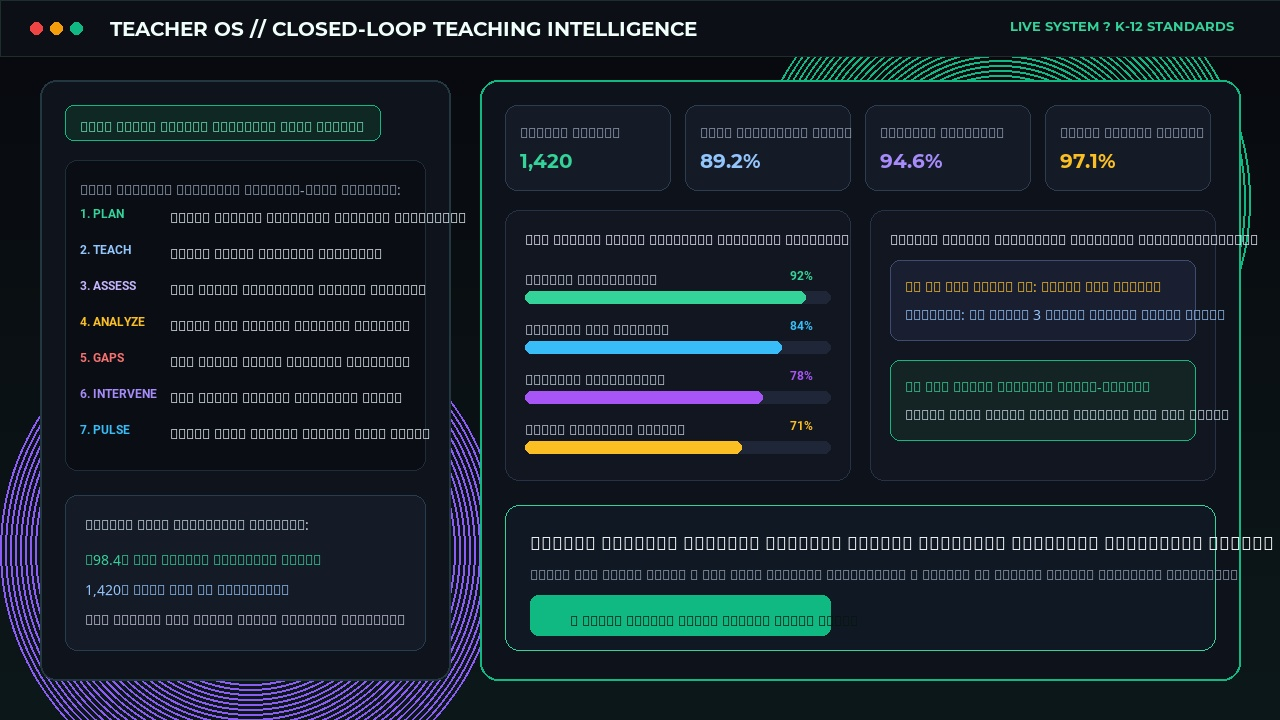
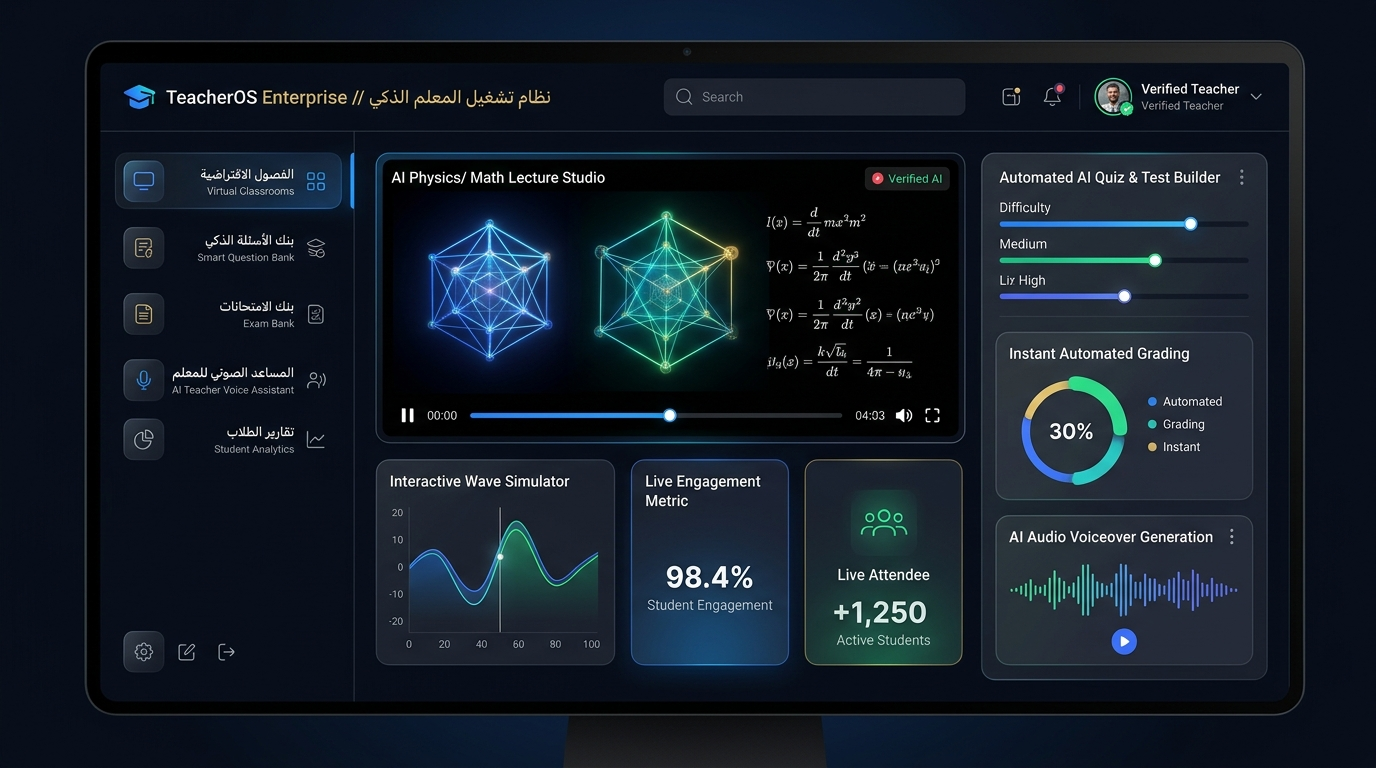
feat: update channel covers to square aspect ratio, remove software models section, replace word passion, add developer branding to voice studio, and update teacheros preview

diff --git a/index.html b/index.html
@@ -370,7 +370,6 @@
             <nav class="hidden xl:flex items-center gap-1 bg-[#111116]/90 border border-white/10 rounded-full px-3 py-1 shadow-inner backdrop-blur-md" id="main-nav-tabs">
         <a href="#services" class="nav-tab px-3 py-1 text-xs font-bold text-zinc-300 hover:text-white hover:bg-purple-950/60 rounded-full transition-all duration-200" data-i18n="nav_services">المهارات</a>
         <a href="#platforms" class="nav-tab px-3 py-1 text-xs font-bold text-zinc-300 hover:text-white hover:bg-purple-950/60 rounded-full transition-all duration-200" data-i18n="nav_platforms">المنظومات الحية</a>
-        <a href="#software-models" class="nav-tab px-3 py-1 text-xs font-bold text-zinc-300 hover:text-white hover:bg-purple-950/60 rounded-full transition-all duration-200" data-i18n="nav_models">النماذج الذكية</a>
         <a href="#media-network" class="nav-tab px-3 py-1 text-xs font-bold text-zinc-300 hover:text-white hover:bg-purple-950/60 rounded-full transition-all duration-200" data-i18n="nav_media">شبكة الميديا</a>
       </nav>
 
@@ -565,7 +564,7 @@
             <span data-i18n="serv_badge">المهارات والخبرات الهندسية</span>
           </div>
           <h2 class="text-lg sm:text-2xl lg:text-3xl font-black text-white" data-i18n="serv_title">
-            شغف بناء المنظومات <span class="purple-gradient-text">وإتقان الحلول الذكية</span>
+            صناعة المنظومات الذكية <span class="purple-gradient-text">وإتقان الحلول البرمجية</span>
           </h2>
         </div>
         <p class="text-zinc-400 text-[11px] sm:text-xs max-w-md" data-i18n="serv_sub">
@@ -1090,120 +1089,6 @@
 
 
   <!-- ========================================== -->
-  <!-- 6. AI SOFTWARE MODELS & TOOLS (VERTICAL CARDS GRID) -->
-  <!-- ========================================== -->
-  <section id="software-models" class="py-6 sm:py-14 relative">
-    <div class="max-w-7xl mx-auto px-3 sm:px-6 lg:px-8">
-      
-      <!-- Section Header -->
-      <div class="flex flex-col md:flex-row md:items-end justify-between mb-4 sm:mb-10 gap-2 sm:gap-4 text-right align-start-dir">
-        <div>
-          <div class="inline-flex items-center gap-1.5 text-[10px] sm:text-xs font-bold text-purple-400 tracking-wider uppercase mb-1">
-            <span class="w-4 h-[2px] bg-purple-500"></span>
-            <span data-i18n="models_badge">النماذج البرمجية والمشاريع التقنية</span>
-          </div>
-          <h2 class="text-lg sm:text-2xl lg:text-3xl font-black text-white" data-i18n="models_title">
-            نماذج ذكية <span class="purple-gradient-text">وحلول برمجية متخصصة</span>
-          </h2>
-        </div>
-        <p class="text-zinc-400 text-[11px] sm:text-xs max-w-md" data-i18n="models_sub">
-          معرض لأحدث النماذج البرمجية، محركات الأتمتة المالية، وأدوات تحليل البيانات الذكية المصممة لتمكين المؤسسات.
-        </p>
-      </div>
-
-      <!-- Models Vertical Cards Grid (3 Columns) -->
-      <div class="grid grid-cols-1 md:grid-cols-3 gap-3.5 sm:gap-5">
-        
-        <!-- Model 1: FinTech Modeling -->
-        <div class="glass-panel rounded-xl sm:rounded-2xl p-3 sm:p-4 border border-white/10 hover:border-purple-500/50 transition-all flex flex-col justify-between text-right align-start-dir group">
-          <div>
-            <div class="aspect-[16/9] max-h-32 sm:max-h-36 rounded-lg bg-[#09090d] border border-white/5 overflow-hidden mb-2.5 relative shadow-sm mx-auto flex items-center justify-center">
-              <img 
-                src="assets/fintech_model_preview.jpg" 
-                alt="FinTech AI Model" 
-                class="w-full h-full object-contain object-center group-hover:scale-105 transition-all duration-700" 
-                onerror="this.src='assets/hero_architect.jpg'"
-                loading="lazy"
-              />
-              <div class="absolute top-1.5 left-1.5 bg-purple-950/90 border border-purple-500/40 px-1.5 py-0.5 rounded text-[8.5px] font-mono text-purple-300">
-                <span data-i18n="m1_tag">نموذج تشغيلي</span>
-              </div>
-            </div>
-            <h3 class="font-bold text-white text-xs sm:text-sm mb-1 group-hover:text-purple-300 transition-colors leading-snug" data-i18n="m1_title">
-              نظام الأتمتة والنمذجة المالية التفاعلية
-            </h3>
-            <p class="text-zinc-400 text-[10.5px] sm:text-xs leading-relaxed mb-3" data-i18n="m1_desc">
-              محرك مالي متكامل لتحليل التدفقات النقدية، تقييم المخاطر، وبناء سيناريوهات الموازنات التقديرية بالذكاء الاصطناعي مع لوحات تحكم تفاعلية فورية.
-            </p>
-          </div>
-          <a href="https://wa.me/201092519210?text=أود%20طلب%20عرض%20توضيحي%20لنموذج%20النمذجة%20المالية" target="_blank" rel="noopener noreferrer" onclick="triggerHaptic()" class="w-full inline-flex items-center justify-center gap-1.5 py-1.5 px-2.5 rounded-lg bg-purple-950/60 hover:bg-purple-900/60 text-purple-300 border border-purple-500/30 text-[10.5px] font-bold transition-all touch-press">
-            <i class="fa-solid fa-circle-play text-[10px]"></i>
-            <span data-i18n="m_btn_demo">طلب عرض توضيحي</span>
-          </a>
-        </div>
-
-        <!-- Model 2: DocuVision OCR -->
-        <div class="glass-panel rounded-xl sm:rounded-2xl p-3 sm:p-4 border border-white/10 hover:border-cyan-500/50 transition-all flex flex-col justify-between text-right align-start-dir group">
-          <div>
-            <div class="aspect-[16/9] max-h-32 sm:max-h-36 rounded-lg bg-[#09090d] border border-white/5 overflow-hidden mb-2.5 relative shadow-sm mx-auto flex items-center justify-center">
-              <img 
-                src="assets/doc_ai_preview.jpg" 
-                alt="DocuVision AI OCR" 
-                class="w-full h-full object-contain object-center group-hover:scale-105 transition-all duration-700" 
-                onerror="this.src='assets/hero_architect.jpg'"
-                loading="lazy"
-              />
-              <div class="absolute top-1.5 left-1.5 bg-cyan-950/90 border border-cyan-500/40 px-1.5 py-0.5 rounded text-[8.5px] font-mono text-cyan-300">
-                <span data-i18n="m2_tag">ذكاء اصطناعي OCR</span>
-              </div>
-            </div>
-            <h3 class="font-bold text-white text-xs sm:text-sm mb-1 group-hover:text-cyan-300 transition-colors leading-snug" data-i18n="m2_title">
-              منظومة معالجة المستندات واستخراج البيانات الذكي
-            </h3>
-            <p class="text-zinc-400 text-[10.5px] sm:text-xs leading-relaxed mb-3" data-i18n="m2_desc">
-              أداة ذكية لاستخراج وهيكلة البيانات من الفواتير والعقود والملفات بصيغ PDF/صور وربطها بقواعد البيانات آلياً دون أي تدخل بشري.
-            </p>
-          </div>
-          <a href="https://wa.me/201092519210?text=أود%20طلب%20عرض%20توضيحي%20لمنظومة%20استخراج%20البيانات%20الذكية" target="_blank" rel="noopener noreferrer" onclick="triggerHaptic()" class="w-full inline-flex items-center justify-center gap-1.5 py-1.5 px-2.5 rounded-lg bg-cyan-950/60 hover:bg-cyan-900/60 text-cyan-300 border border-cyan-500/30 text-[10.5px] font-bold transition-all touch-press">
-            <i class="fa-solid fa-circle-play text-[10px]"></i>
-            <span data-i18n="m_btn_demo">طلب عرض توضيحي</span>
-          </a>
-        </div>
-
-        <!-- Model 3: Executive Strategy AI -->
-        <div class="glass-panel rounded-xl sm:rounded-2xl p-3 sm:p-4 border border-white/10 hover:border-purple-500/50 transition-all flex flex-col justify-between text-right align-start-dir group">
-          <div>
-            <div class="aspect-[16/9] max-h-32 sm:max-h-36 rounded-lg bg-[#09090d] border border-white/5 overflow-hidden mb-2.5 relative shadow-sm mx-auto flex items-center justify-center">
-              <img 
-                src="assets/exec_ai_preview.jpg" 
-                alt="Executive Decision AI" 
-                class="w-full h-full object-contain object-center group-hover:scale-105 transition-all duration-700" 
-                onerror="this.src='assets/hero_architect.jpg'"
-                loading="lazy"
-              />
-              <div class="absolute top-1.5 left-1.5 bg-purple-950/90 border border-purple-500/40 px-1.5 py-0.5 rounded text-[8.5px] font-mono text-purple-300">
-                <span data-i18n="m3_tag">إدارة استراتيجية</span>
-              </div>
-            </div>
-            <h3 class="font-bold text-white text-xs sm:text-sm mb-1 group-hover:text-purple-300 transition-colors leading-snug" data-i18n="m3_title">
-              مساعد القرار الاستراتيجي للمؤسسات
-            </h3>
-            <p class="text-zinc-400 text-[10.5px] sm:text-xs leading-relaxed mb-3" data-i18n="m3_desc">
-              منصة قيادة وتحليلات تنبؤية تجمع بيانات المبيعات والتسويق والتشغيل وتقدم توصيات استراتيجية مدعومة بالبيانات للنمو السريع.
-            </p>
-          </div>
-          <a href="https://wa.me/201092519210?text=أود%20طلب%20عرض%20توضيحي%20لمساعد%20القرار%20الاستراتيجي" target="_blank" rel="noopener noreferrer" onclick="triggerHaptic()" class="w-full inline-flex items-center justify-center gap-1.5 py-1.5 px-2.5 rounded-lg bg-purple-950/60 hover:bg-purple-900/60 text-purple-300 border border-purple-500/30 text-[10.5px] font-bold transition-all touch-press">
-            <i class="fa-solid fa-circle-play text-[10px]"></i>
-            <span data-i18n="m_btn_demo">طلب عرض توضيحي</span>
-          </a>
-        </div>
-
-      </div>
-    </div>
-  </section>
-
-
-  <!-- ========================================== -->
   <!-- 7. MEDIA NETWORK & FATHOM X (CHANNELS GRID) -->
   <!-- ========================================== -->
   <section id="media-network" class="py-6 sm:py-14 relative bg-[#07070b]">
@@ -1272,7 +1157,7 @@
             </div>
 
             <!-- Authentic 9:16 Original Episode Cover (Barreleye Branded) -->
-            <div class="aspect-[9/13] max-h-72 rounded-xl bg-[#08080c] border border-white/10 mb-3 overflow-hidden relative shadow-md flex items-center justify-center">
+            <div class="aspect-square w-full rounded-xl bg-[#08080c] border border-white/10 mb-3 overflow-hidden relative shadow-md flex items-center justify-center">
               <img 
                 src="assets/fathom_x_cover_branded.jpg" 
                 alt="Fathom X Deep Sea Official Episode Cover" 
@@ -1367,7 +1252,7 @@
             </div>
 
             <!-- Authentic 9:16 Original Episode Cover (Champion Model 10) -->
-            <div class="aspect-[9/13] max-h-72 rounded-xl bg-[#08080c] border border-white/10 mb-3 overflow-hidden relative shadow-md flex items-center justify-center">
+            <div class="aspect-square w-full rounded-xl bg-[#08080c] border border-white/10 mb-3 overflow-hidden relative shadow-md flex items-center justify-center">
               <img 
                 src="assets/smart_health_champion_cover.jpg" 
                 alt="Smart Health USA Champion Episode Cover" 
@@ -1462,7 +1347,7 @@
             </div>
 
             <!-- Authentic 9:16 Original Episode Cover (Viral Showcase) -->
-            <div class="aspect-[9/13] max-h-72 rounded-xl bg-[#08080c] border border-white/10 mb-3 overflow-hidden relative shadow-md flex items-center justify-center">
+            <div class="aspect-square w-full rounded-xl bg-[#08080c] border border-white/10 mb-3 overflow-hidden relative shadow-md flex items-center justify-center">
               <img 
                 src="assets/meta_lapse_viral_cover.jpg" 
                 alt="Meta Lapse ASMR Authentic Viral Cover" 
@@ -1638,7 +1523,7 @@
         </div>
 
         <h2 class="text-base sm:text-2xl lg:text-3xl font-black text-white mb-2.5 leading-snug" data-i18n="cta_title">
-          بناء المنظومات شغف هندسي مستمر وتوثيق دائم للابتكار
+          بناء المنظومات بخبرة عملية وتوثيق دائم لأفضل الحلول البرمجية
         </h2>
         
         <p class="text-[11px] sm:text-sm text-zinc-300 max-w-xl mx-auto leading-relaxed mb-5" data-i18n="cta_desc">
@@ -1683,7 +1568,6 @@
           <div class="grid grid-cols-2 gap-1 text-[10.5px]">
             <a href="#services" class="hover:text-purple-400 transition-colors" data-i18n="nav_services">الخدمات الهندسية</a>
             <a href="#platforms" class="hover:text-purple-400 transition-colors" data-i18n="nav_platforms">المنظومات الحية</a>
-            <a href="#software-models" class="hover:text-purple-400 transition-colors" data-i18n="nav_models">النماذج الذكية</a>
             <a href="#media-network" class="hover:text-purple-400 transition-colors" data-i18n="nav_media">شبكة الميديا</a>
             <a href="#metrics" class="hover:text-purple-400 transition-colors" data-i18n="footer_metric_link">مؤشرات النجاح</a>
           </div>
@@ -1734,11 +1618,6 @@
           <i class="fa-brands fa-whatsapp text-base"></i>
         </div>
         <span class="text-[8px] font-black text-emerald-400 mt-0.5" data-i18n="dock_contact">تواصل</span>
-      </a>
-
-      <a href="#software-models" onclick="triggerHaptic()" class="dock-tab flex flex-col items-center gap-0.5 text-zinc-400 hover:text-purple-400 transition-colors touch-press">
-        <i class="fa-solid fa-code text-xs"></i>
-        <span class="text-[8px] font-bold" data-i18n="dock_models">النماذج</span>
       </a>
 
       <a href="#media-network" onclick="triggerHaptic()" class="dock-tab flex flex-col items-center gap-0.5 text-zinc-400 hover:text-pink-400 transition-colors touch-press">
@@ -1842,12 +1721,12 @@
         hero_h1_part1: "أحوّل التعقيد إلى",
         hero_h1_part2: "أنظمة ذكية فائقة.",
         hero_tagline: "الأنظمة والأتمتة والإنتاج الرقمي 2025",
-        hero_bio: "بورتفوليو هندسي شخصي يوثق مسيرة شغف في تصميم وبناء المنظومات الذكية، وهندسة الأتمتة والإنتاج الرقمي؛ من بناء المنصات الشاملة والمحررات المرئية، إلى النمذجة المتقدمة ومعمارية السحابة — سجل حي لإنجازاتي وتجاربي التقنية الحقيقية، مع كامل الترحيب بتبادل الخبرات أو تقديم أي استشارات مجانية لمن يحتاجها.",
+        hero_bio: "مساحتي الخاصة لتوثيق مشاريعي وخبرتي في تصميم وبناء المنظومات البرمجية والحلول الذكية؛ من بناء المنصات والمحررات المرئية لغاية خطوط إنتاج الميديا المؤتمتة — تجارب عملية حقيقية خطوة بخطوة، وأهلاً وسهلاً بتبادل الخبرات أو تقديم أي استشارة مجانية في أي وقت.",
         hero_btn_whatsapp: "محادثة واتساب مباشرة (+20 109 251 9210)",
         hero_btn_platforms: "استكشف المنظومات الحية",
         hero_portrait_name: "عبده علي موسى",
         hero_portrait_role: "هندسة وتكامل خوارزميات الذكاء الاصطناعي للمؤسسات",
-        hero_stamp_text: "• توثيق هندسي • منظومات ذكية • شغف الابتكار •",
+        hero_stamp_text: "• توثيق هندسي • منظومات ذكية • حلول عملية •",
 
         metric_1_title: "قنوات شورتس دولية",
         metric_1_sub: "شبكة إعلامية ذكية ذاتية القيادة",
@@ -1859,7 +1738,7 @@
         metric_4_sub: "أنظمة وتشغيل مستمر بلا انقطاع",
 
         serv_badge: "المهارات والخبرات الهندسية",
-        serv_title: "شغف بناء المنظومات <span class='purple-gradient-text'>وإتقان الحلول الذكية</span>",
+        serv_title: "صناعة المنظومات الذكية <span class='purple-gradient-text'>وإتقان الحلول البرمجية</span>",
         serv_sub: "توثيق لمسيرتي وخبراتي في تحويل الأفكار والتحديات إلى منظومات ذكية ومستقرة، وبناء معماريات برمجية تعكس دقة التنفيذ والابتكار.",
         s1_title: "أتمتة الأعمال بالذكاء الاصطناعي المستقل (Autonomous AI)",
         s1_desc: "تصميم وبناء مسارات عمل ذكية ذاتية القيادة (AI Agents) لتنفيذ المهام المعقدة، وخدمة العملاء، وتحليل البيانات بأعلى مستويات الدقة والسرعة.",
@@ -1952,7 +1831,7 @@
         social_hub_text: "مركز القنوات والمنصات الرسمية الموثقة:",
 
         cta_badge: "خاتمة المسيرة وسجل الإنجازات",
-        cta_title: "بناء المنظومات شغف هندسي مستمر وتوثيق دائم للابتكار",
+        cta_title: "بناء المنظومات بخبرة عملية وتوثيق دائم لأفضل الحلول البرمجية",
         cta_desc: "هذا المعرض ليس منصة لبيع الخدمات، بل هو سجل شخصي وثائقي يجسد مسيرتي في تحويل المفاهيم المعقدة إلى برمجيات حقيقية حية. وإيماناً بأهمية مشاركة المعرفة ونقل الخبرة للمجتمع التقني، يسعدني دوماً تقديم أي استشارات أو مشورات برمجية مجانية لمن يطلبها.",
         cta_btn_wa: "تواصل مباشر عبر واتساب",
         cta_btn_tg: "تيليجرام التقني (@abdou25008)",
@@ -2596,10 +2475,6 @@
             <label class="flex items-center justify-between p-2 rounded-lg bg-[#14141e] border border-white/5 cursor-pointer">
               <span class="text-zinc-200">المنظومات والتطبيقات الحية (Live Platforms)</span>
               <input type="checkbox" checked onchange="toggleSection('platforms', this.checked)" class="accent-purple-500 w-4 h-4">
-            </label>
-            <label class="flex items-center justify-between p-2 rounded-lg bg-[#14141e] border border-white/5 cursor-pointer">
-              <span class="text-zinc-200">النماذج الذكية والأدوات (Software Models)</span>
-              <input type="checkbox" checked onchange="toggleSection('software-models', this.checked)" class="accent-purple-500 w-4 h-4">
             </label>
             <label class="flex items-center justify-between p-2 rounded-lg bg-[#14141e] border border-white/5 cursor-pointer">
               <span class="text-zinc-200">شبكة قنوات الميديا (Media Network)</span>
